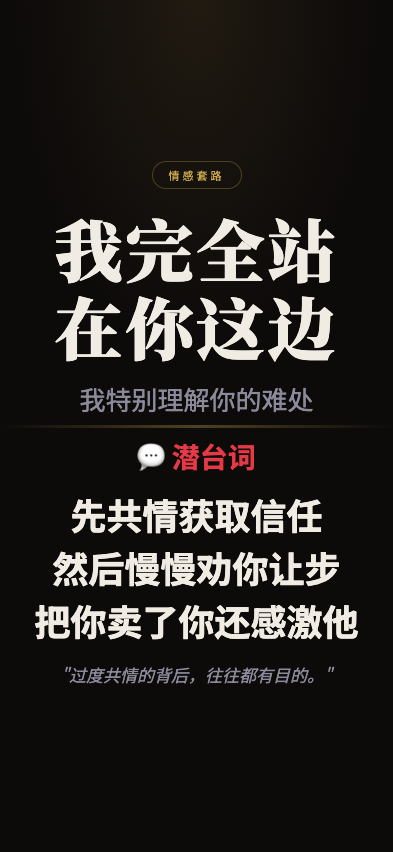
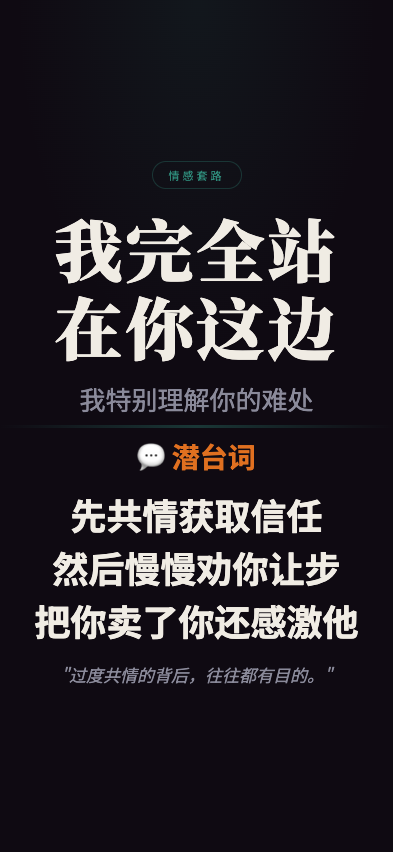
feat: 职场生存法则 screenshot - wowanquanzhanzainizhebian

Changed region(s): [[0.2443, 0.4883, 0.7328, 0.5493], [0.4275, 0.1831, 0.5802, 0.2136]]

diff --git a/wuliao-tools/tools/biz-speak/scenes/wowanquanzhanzainizhebian.html b/wuliao-tools/tools/biz-speak/scenes/wowanquanzhanzainizhebian.html
@@ -7,11 +7,11 @@
 <link href="https://fonts.googleapis.com/css2?family=Noto+Serif+SC:wght@400;700;900&family=Noto+Sans+SC:wght@300;400;700&display=swap" rel="stylesheet">
 <style>
   :root {
-    --bg: #0d0a0a;
+    --bg: #0f0a12;
     --text: #f0ece4;
     --text-dim: #8a8a9a;
-    --gold: #c9a84c;
-    --red: #e63946;
+    --gold: #2e8b7a;
+    --red: #e07020;
   }
   * { margin:0; padding:0; box-sizing:border-box; }
   html, body { width:100%; height:100%; overflow:hidden; }
@@ -24,11 +24,11 @@
   }
   body::before {
     content:''; position:absolute; top:0; left:0; right:0; height:45%;
-    background:radial-gradient(ellipse at 50% 0%, rgba(201,168,76,0.1) 0%, transparent 65%);
+    background:radial-gradient(ellipse at 50% 0%, rgba(46,139,122,0.1) 0%, transparent 65%);
     pointer-events:none; z-index:0;
   }
   .top { flex:1; display:flex; flex-direction:column; align-items:center; justify-content:flex-end; padding:4px 28px 8px; position:relative; z-index:1; }
-  .tag { font-size:11px; letter-spacing:3px; color:var(--gold); border:1px solid rgba(201,168,76,0.3); padding:5px 16px; border-radius:50px; margin-bottom:20px; }
+  .tag { font-size:11px; letter-spacing:3px; color:var(--gold); border:1px solid rgba(46,139,122,0.3); padding:5px 16px; border-radius:50px; margin-bottom:20px; }
   .main-title { font-family:'Noto Serif SC'; font-size:68px; font-weight:900; text-align:center; line-height:1.15; letter-spacing:3px; min-width:0; overflow-wrap:break-word; max-width:92%; }
   .sub-title { font-size:26px; color:var(--text-dim); text-align:center; margin-top:14px; }
   .divider { width:100%; height:3px; background:linear-gradient(90deg,transparent,var(--gold),transparent); opacity:0.35; flex-shrink:0; position:relative; z-index:1; }
